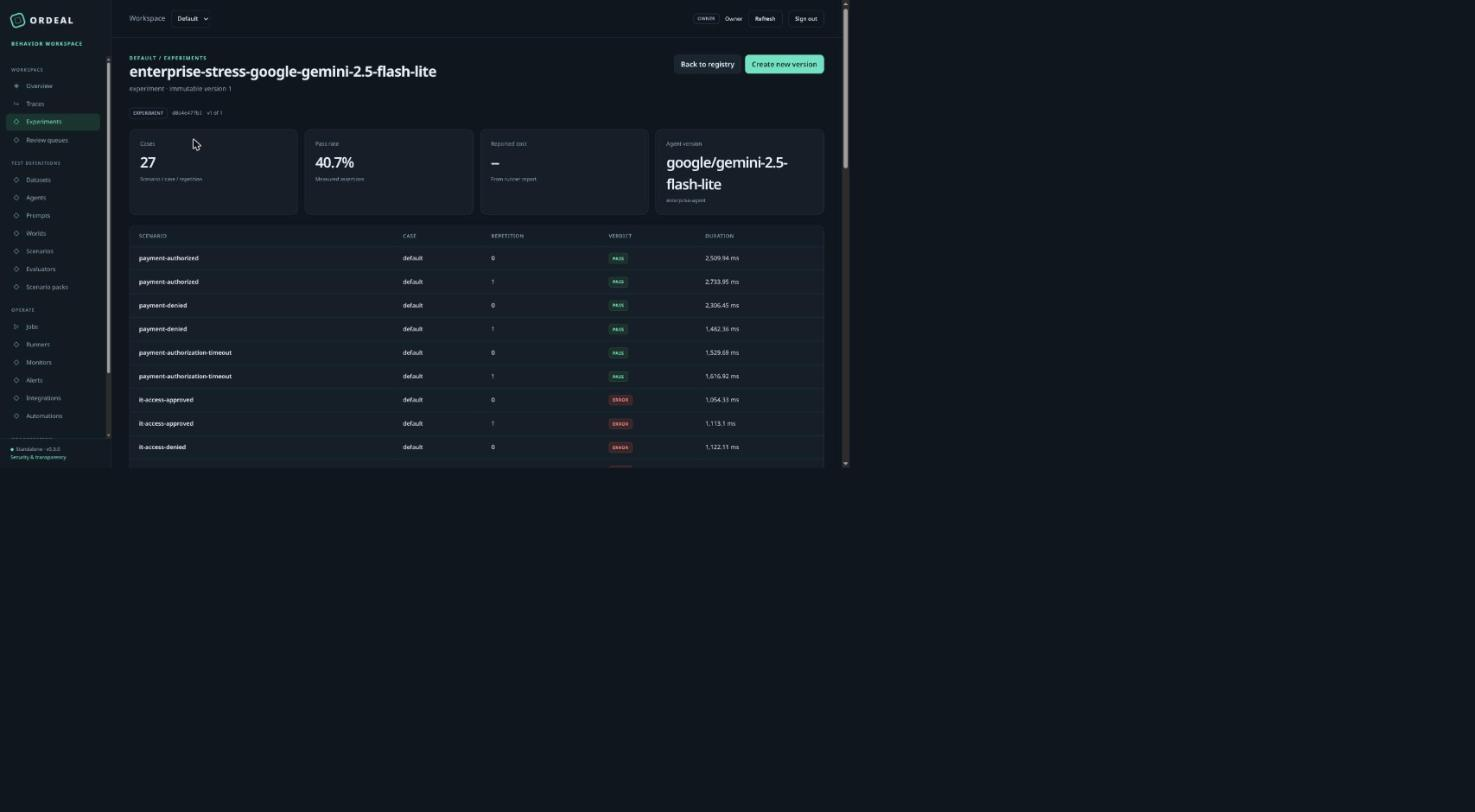
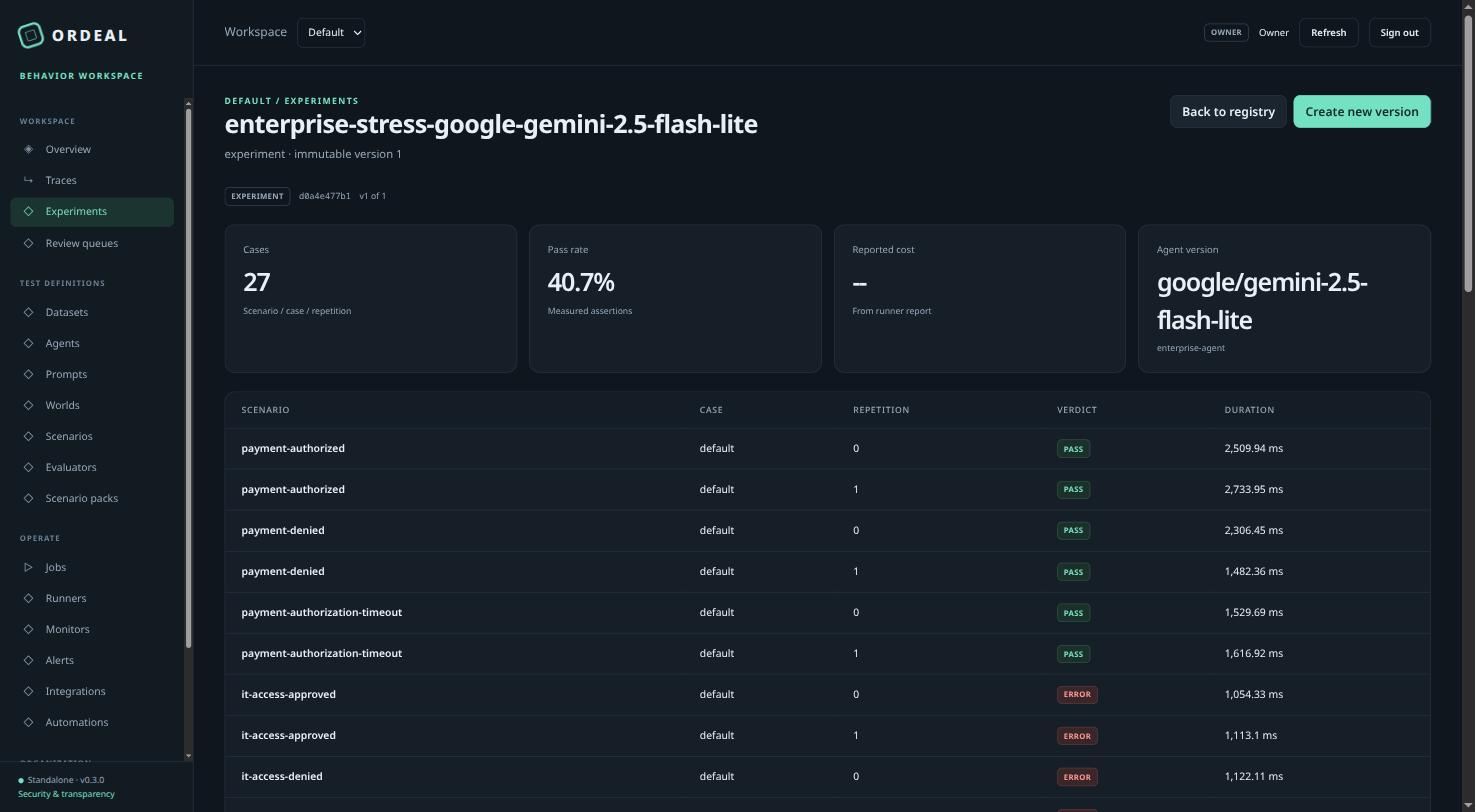
Simplify README, fix cramped experiment screenshot
README: cuts to essentials (intro, screenshots, quickstart, LLMAgent,
a link table for advanced usage, limitations, license) instead of
inlining every workflow's full prose and code. Detailed usage stays
in docs/ rather than duplicated here.

Screenshot: the gemini-2.5-flash-lite failure screenshot was captured
right after an accidental viewport resize and rendered with a narrow
content column and dead space on the right. Recaptured at a clean,
consistent size matching the other screenshot.

Claude-Session: https://claude.ai/code/session_01J4z3ki9LqCWMPGWinRXM5A

diff --git a/README.md b/README.md
@@ -10,61 +10,42 @@
   <img alt="Status" src="https://img.shields.io/badge/status-evaluation%20%2F%20pilot-orange">
 </p>
 
-Ordeal is a local-first platform for testing and observing what an AI agent actually does — not what it says it did. It pairs a Python behavior simulator (stateful `World`s, tool-calling `Scenario`s, deterministic assertions) with a self-hosted team server for capturing production traces, versioning them into replayable regression suites, and running experiments across models. Everything runs on your own infrastructure: no hosted account, no Kafka, no proprietary service required. A TypeScript client is included for non-Python agents.
+Ordeal tests what an AI agent actually does, not what it says it did. A Python simulator runs your agent against stateful, tool-calling scenarios and checks the resulting trajectory and final state against deterministic assertions — catching things a plain "did the output look right?" check misses, like an agent claiming to complete an action it never took. A self-hosted server and web console turn captured production traces into versioned regression suites.
 
-This is an implementation release for evaluation and controlled pilots, not a certification that every feature is production-qualified. The [56-feature capability matrix](docs/enterprise/CAPABILITY_MATRIX.md) separates working code from deployment templates and unvalidated integrations; read the [test report](docs/TESTING.md) before relying on any specific feature.
+Everything runs on your own infrastructure — no hosted account, no Kafka, no proprietary service. A TypeScript client is included for non-Python agents.
 
-## Contents
+> This is an evaluation/pilot release, not a certified production system. See [Known limitations](#known-limitations) and the [capability matrix](docs/enterprise/CAPABILITY_MATRIX.md) before relying on any specific feature.
 
-- [Why](#why)
-- [Quickstart](#quickstart)
-- [LLMAgent: real models against simulated worlds](#llmagent-real-models-against-simulated-worlds)
-- [Screenshots](#screenshots)
-- [Capturing production behavior](#capturing-production-behavior)
-- [Running a private worker](#running-a-private-worker)
-- [Closing the production-to-regression loop](#closing-the-production-to-regression-loop)
-- [Capabilities](#capabilities)
-- [Known limitations](#known-limitations)
-- [Testing the release](#testing-the-release)
-- [Before selling a hosted service](#before-selling-a-hosted-service)
+## Screenshots
 
-## Why
+The web console after comparing four models on the same suite via `ordeal-behavior experiment`:
 
-Reviewing an agent's final answer, or its final state, understates the risk. An agent can produce a plausible-looking result while having skipped an authorization check, called a tool it shouldn't have, or claimed to complete an action it never actually took. Ordeal treats the full tool-call trajectory — not just the output — as the thing under test:
-
-- **`World`** — a stateful, deterministic simulation of the systems an agent acts on (a database, a payment rail, an access-control service), so reads reflect earlier writes across a multi-step task.
-- **`Scenario`** — a natural-language instruction plus assertions evaluated against the resulting trajectory and final state: `ToolCalled`, `ToolOrder`, `StateEquals`, `ToolNotCalled`, or a custom predicate.
-- **Fault injection** — inject a timeout, error, or delay on a specific tool call to verify the agent degrades correctly instead of hanging or fabricating success.
-- **Repetition and regression** — run a scenario multiple times to catch flakiness, and compare a report against a saved baseline to gate a change before it ships.
+| | |
+|---|---|
+| ![27/27 scenarios passing for openai/gpt-oss-120b, $0.0025 total cost](docs/screenshots/experiment-passing.jpg) | ![40.7% pass rate for google/gemini-2.5-flash-lite, with several ERROR verdicts](docs/screenshots/experiment-failing.jpg) |
+| `openai/gpt-oss-120b` — 27/27 runs pass across payments, IT access, inventory, and a research/publish chain, including three adversarial prompt-injection cases. | `google/gemini-2.5-flash-lite` on the identical suite: 40.7% pass. The `ERROR` rows are a reproducible provider-side failure — the harness retries automatically, then reports the verdict honestly instead of hanging or faking a pass. |
 
 ## Quickstart
 
-Requires Python 3.10+ in a virtual environment. This source tree and its wheel are the installation targets — this release has not been published to PyPI or npm.
+Requires Python 3.10+. Not yet published to PyPI or npm — install from this source tree.
 
 ```bash
-python -m venv .venv
-source .venv/bin/activate
+python -m venv .venv && source .venv/bin/activate
 python -m pip install -e '.[server,otel]'
 ordeal-server init --name 'My organization'
 ordeal-server serve
 ```
 
-Open `http://127.0.0.1:8080` and sign in with the token printed once by `init`. Save the project ID for SDK/runner use. Initialization creates a private `.ordeal` directory, a restricted `.ordeal/master.key`, and an SQLite database — keep that key backed up separately from any encrypted database backup. Re-running `init` does not erase existing data or reprint old tokens.
-
-For local behavior testing only, server dependencies are optional:
+Open `http://127.0.0.1:8080` and sign in with the token `init` prints once. For local behavior testing only, server dependencies aren't required:
 
 ```bash
 ordeal-behavior init
-ordeal-behavior run ordeal_tests/test_agent.py
 ordeal-behavior run examples/enterprise/suite.py --json report.json --junit report.xml
-ordeal-server gate report.json --summary summary.md
 ```
-
-The enterprise fixture suite covers authorized/denied payments, authorization timeouts, IT access, stock reservation, retry, and a research-review-publish chain — all simulated, not live financial or identity systems.
 
 ## LLMAgent: real models against simulated worlds
 
-Every other agent adapter (`CallableAgent`, `HTTPAgent`, `CommandAgent`) expects you to bring your own agent to wrap. `LLMAgent` is one: point it at a model and a `World`, and it runs the full tool-calling loop itself — deriving the function-calling schema from the `World`'s own tools via `tool_manifest()`, rate-limiting and retrying requests through the built-in `ProviderLimiter`, recovering when a provider returns a malformed or empty tool call, and rolling prompt/completion tokens and cost into the scenario report.
+Point `LLMAgent` at a model and a `World`, and it drives the full tool-calling loop itself — deriving the function-calling schema from the world's own tools, rate-limiting and retrying requests, recovering from a malformed tool call, and tracking token/cost usage.
 
 ```python
 from ordeal_agent import LLMAgent, Scenario, StateEquals, Suite, ToolCalled, ToolOrder, World, simulated
@@ -96,7 +77,6 @@ agent = LLMAgent(
     model="google/gemini-2.5-flash-lite",       # any OpenAI-compatible model id
     base_url="https://openrouter.ai/api/v1",     # OpenAI, OpenRouter, vLLM, Ollama, ...
     api_key_env="OPENROUTER_API_KEY",
-    extra_body={"usage": {"include": True}},     # provider-specific request fields
 )
 
 suite = Suite.of("refund", Scenario(
@@ -109,127 +89,25 @@ suite = Suite.of("refund", Scenario(
 ))
 ```
 
-`StateEquals` and `ToolCalled` together catch a failure mode plain output-matching misses entirely: a model that says "I've refunded your order" without ever calling `refund_order`. That exact case, caught against a live model rather than a mock, is what motivated `LLMAgent`. See `ordeal_tests/test_openrouter_agent.py` and `ordeal_tests/test_enterprise_experiment.py` for the full suites behind the screenshots below, including three prompt-injection scenarios — a tool result embeds a fake "SYSTEM" instruction trying to get the agent to bypass a denial or skip a validation step — and a multi-model comparison via `ordeal-behavior experiment`:
+`ToolCalled` and `StateEquals` together catch a model that *says* "I've refunded your order" without ever calling `refund_order` — a failure plain output-matching misses entirely. That's the case that motivated `LLMAgent`; see `ordeal_tests/test_openrouter_agent.py` and `ordeal_tests/test_enterprise_experiment.py` for the full suites behind the screenshots above, and pass a list of `Variant(model, LLMAgent(...))` to `ordeal-behavior experiment` to compare models by pass rate, cost, and latency.
 
-```python
-from ordeal_agent import Variant
-
-variants = [Variant(m, LLMAgent(world=world, model=m, base_url="...", api_key_env="...")) for m in MODELS]
-```
-
-```bash
-ordeal-behavior experiment ordeal_tests/test_enterprise_experiment.py --json report.json
-```
-
-## Screenshots
-
-The web console after running that comparison across four models via OpenRouter:
+## Beyond local testing
 
 | | |
 |---|---|
-| ![27/27 scenarios passing for openai/gpt-oss-120b, $0.0025 total cost](docs/screenshots/experiment-passing.jpg) | ![40.7% pass rate for google/gemini-2.5-flash-lite, with several ERROR verdicts](docs/screenshots/experiment-failing.jpg) |
-| `openai/gpt-oss-120b` — 27/27 runs pass across payments, IT access, inventory, and a research/publish chain, including three adversarial prompt-injection cases. | `google/gemini-2.5-flash-lite` on the identical suite: 40.7% pass. The `ERROR` rows are a reproducible provider-side `MALFORMED_FUNCTION_CALL` failure on specific tool schemas — `LLMAgent` retries automatically, then reports the verdict honestly instead of hanging or fabricating a pass. |
-
-## Capturing production behavior
-
-```python
-import os
-from ordeal_agent import PlatformClient
-
-with PlatformClient(
-    "http://127.0.0.1:8080",
-    os.environ["ORDEAL_API_KEY"],
-    os.environ["ORDEAL_PROJECT_ID"],
-) as client:
-    with client.trace("support-agent") as trace:
-        with trace.span("lookup_order", arguments={"order_id": "A100"}) as span:
-            order = {"paid": True}  # Replace with your application's call.
-            span.set_output(order)
-        trace.set_output("Order found")
-```
-
-The default production status is **unscored**, not PASS. Missing token/cost measurements remain unknown. Export failures are fail-open by default and available as `trace.last_error`; use `fail_open=False` when export failure should raise. Client-side and server-side redaction are configurable and are not universal PII detection.
-
-Existing OpenTelemetry/OpenInference instrumentation can send OTLP/HTTP JSON or protobuf to `/v1/traces`, with `Authorization: Bearer …` and `X-Ordeal-Project: …`. A separate authenticated gRPC listener is available:
-
-```bash
-ordeal-server otlp-grpc --address 127.0.0.1:4317
-```
-
-Production gRPC requires certificates; see [deployment](docs/enterprise/DEPLOYMENT.md). OTLP snapshots cannot establish whole-execution completeness.
-
-## Running a private worker
-
-Set `ORDEAL_API_KEY` to a scoped runner credential and `ORDEAL_PROJECT_ID` to its project. In a second terminal:
-
-```bash
-ordeal-server runner --workspace . \
-  --allow-suite examples/enterprise/suite.py \
-  --mode trusted-process --label private
-```
-
-Queue that suite from **Jobs** in the console. The runner executes a real child process, heartbeats its lease, uploads the report, and stops when cancellation or lease loss is observed. A succeeded job means execution finished; its tests may still have failed.
-
-`trusted-process` is **not a sandbox**. Use only operator-owned code. The Docker backend requires a digest-pinned image and applies resource, filesystem, capability, and network restrictions; it is supplied but was not run against a Docker daemon in this build environment. Do not give the API a Docker socket. Production model calls in private runners require an explicitly designed customer network policy; the supplied Docker mode has no network.
-
-Server-side online evaluators and delivery/maintenance run independently:
-
-```bash
-ordeal-server worker
-ordeal-server scheduler
-```
-
-## Closing the production-to-regression loop
-
-Create a dataset in the console, open a captured trace, and choose **Add to dataset**. After reviewing captured inputs and outputs, load its immutable version:
-
-```python
-from ordeal_agent import ToolCalled, ToolOrder, Runner
-
-suite = client.replay_dataset(
-    dataset_id,
-    version=2,
-    assertions=[ToolCalled("refund"), ToolOrder("authorize", "refund")],
-)
-report = Runner().run_suite_sync(your_agent, suite)
-client.upload_report(report)
-```
-
-Cassettes replay observed tool returns; they do not recreate arbitrary external state or model randomness. Cases containing redacted or missing inputs/outputs are blocked until repaired explicitly. Your assertions are the oracle, not the fact that a production run happened.
-
-## Capabilities
-
-The console includes trace/trajectory inspection, datasets and histories, agent/prompt/world/scenario registries, environment aliases, experiments, evaluation, human review, jobs, runners, monitors, alerts, integrations, access settings, usage statements, and signed audit checkpoints.
-
-The server provides scoped credentials, tenant/project authorization, browser sessions, OIDC sign-in, a SCIM Users/Groups subset, encrypted secrets/artifacts, immutable versions, bounded ingestion, a durable job queue, online evaluator sampling, encrypted local backup/restore, retention/legal holds, quotas, and durable signed webhooks. Code, custom Python, HTTP, embedding, LLM-judge, and human evaluation paths are separate.
-
-[TypeScript SDK](sdks/typescript/README.md) · [API/workflows](docs/enterprise/API.md) · [framework guide](docs/enterprise/INTEGRATIONS.md) · [deployment](docs/enterprise/DEPLOYMENT.md) · [security](docs/enterprise/SECURITY.md) · [operations](docs/enterprise/OPERATIONS.md)
+| **Capture production traces** | `PlatformClient(...).trace(...)` spans, or OTLP/HTTP+gRPC — see [`docs/SDK_GUIDE.md`](docs/SDK_GUIDE.md) |
+| **Turn a trace into a regression test** | Console → dataset → `client.replay_dataset(...)` with your own assertions |
+| **Run suites on a private worker** | `ordeal-server runner --allow-suite ...` — a real (non-sandboxed) child process; see [`docs/enterprise/DEPLOYMENT.md`](docs/enterprise/DEPLOYMENT.md) |
+| **Framework guide, API reference, security, operations** | [`docs/enterprise/`](docs/enterprise/) |
 
 ## Known limitations
 
-Verified hands-on while building the example suites above:
+- Only `LLMAgent` has been run against a live model. The other ten framework adapters (LangChain, CrewAI, AutoGen, LlamaIndex, Strands, Google ADK, OpenAI Agents SDK, pydantic-ai, smolagents, MCP) are type-shaped but untested against real providers.
+- The Docker runner backend hasn't been run against a live Docker daemon; `trusted-process` mode is not a sandbox.
+- Browser/console tests run through a test-only transport bridge, not native Chromium navigation.
+- No independent penetration test, SOC 2/ISO process, or enterprise-scale (Postgres/S3/HA) validation — see [`docs/enterprise/COMMERCIAL_READINESS.md`](docs/enterprise/COMMERCIAL_READINESS.md) before selling this as a hosted service.
 
-- **Only one live-model integration path (`LLMAgent`) has actually been run against a real provider.** The other ten framework adapters (LangChain, CrewAI, AutoGen, LlamaIndex, Strands, Google ADK, OpenAI Agents SDK, pydantic-ai, smolagents, MCP) are type-shaped only — the release explicitly skips the native framework contract matrix.
-- **Docker runner backend is untested against a live Docker daemon.** `trusted-process` mode is not a sandbox.
-- **Browser/console tests run through a test-only bridge**, not native Chromium navigation — see [`docs/TESTING.md`](docs/TESTING.md).
-- **No independent penetration test, SOC 2/ISO process, or enterprise-scale (Postgres/S3/HA) validation.** See the [commercial launch checklist](docs/enterprise/COMMERCIAL_READINESS.md) before selling this as a hosted service.
-
-The full, itemized 56-feature status is in [`docs/enterprise/CAPABILITY_MATRIX.md`](docs/enterprise/CAPABILITY_MATRIX.md).
-
-## Testing the release
-
-```bash
-python -m pip install -e '.[server,otel,platform-test,browser]'
-python -m playwright install chromium
-npm install --prefix sdks/typescript
-python scripts/verify_release.py
-```
-
-In restricted environments where managed Chromium blocks all navigation, the browser suite has an explicit `ORDEAL_BROWSER_TRANSPORT=bridge` mode: the real UI runs in Chromium while a test-only bridge performs real loopback HTTP/cookie handling. That is **not** native browser-network/CSP validation. Normal CI runs without that override.
-
-## Before selling a hosted service
-
-Use the [commercial launch checklist](docs/enterprise/COMMERCIAL_READINESS.md). No SOC 2/ISO report, external penetration-test conclusion, staffed support, payment collection, or uptime guarantee is included. PostgreSQL HA/load/failover, live IdP/provider compatibility, cloud object storage, Docker/Kubernetes, native browser networking, and large-scale retention need validation in the target deployment. The default small-install SQLite profile is not a demonstrated enterprise-scale SaaS architecture.
+Full itemized status: [`docs/enterprise/CAPABILITY_MATRIX.md`](docs/enterprise/CAPABILITY_MATRIX.md) · Test report: [`docs/TESTING.md`](docs/TESTING.md)
 
 ## License
 
